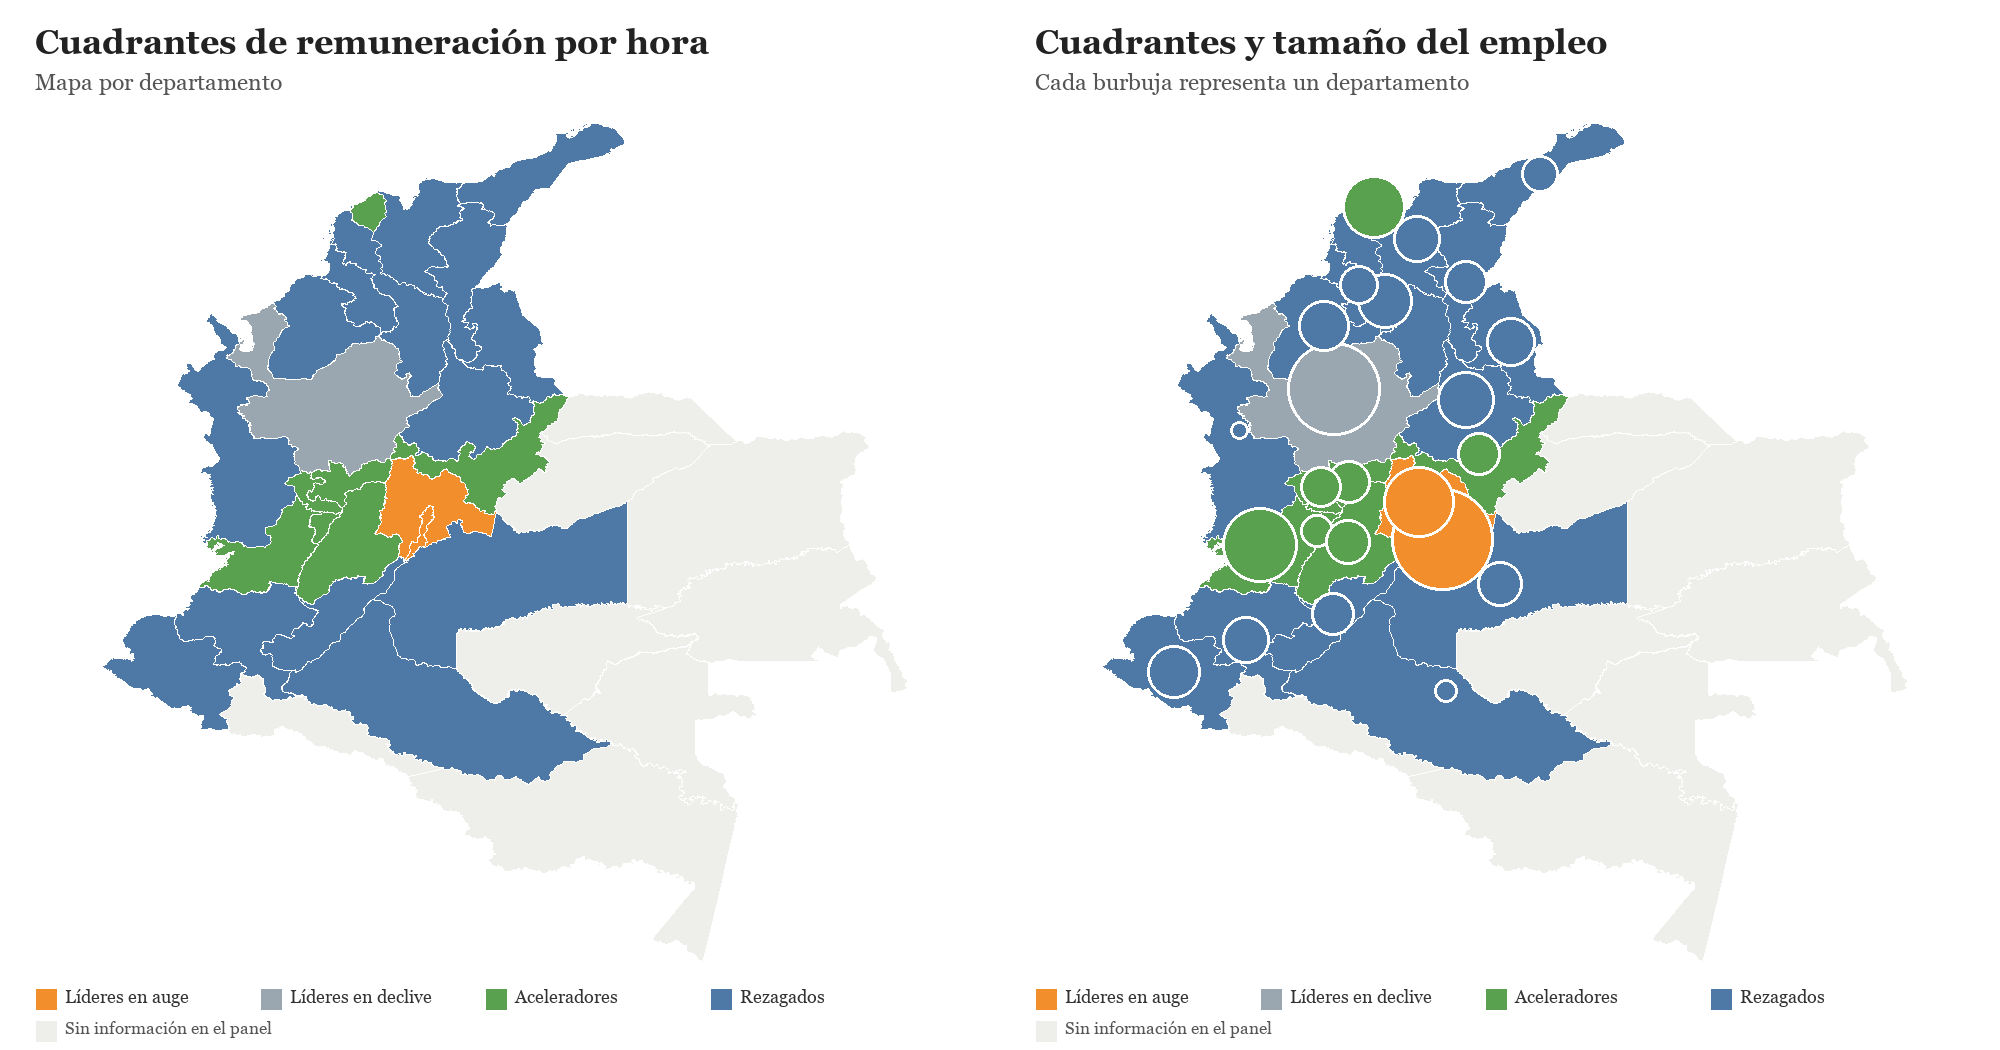
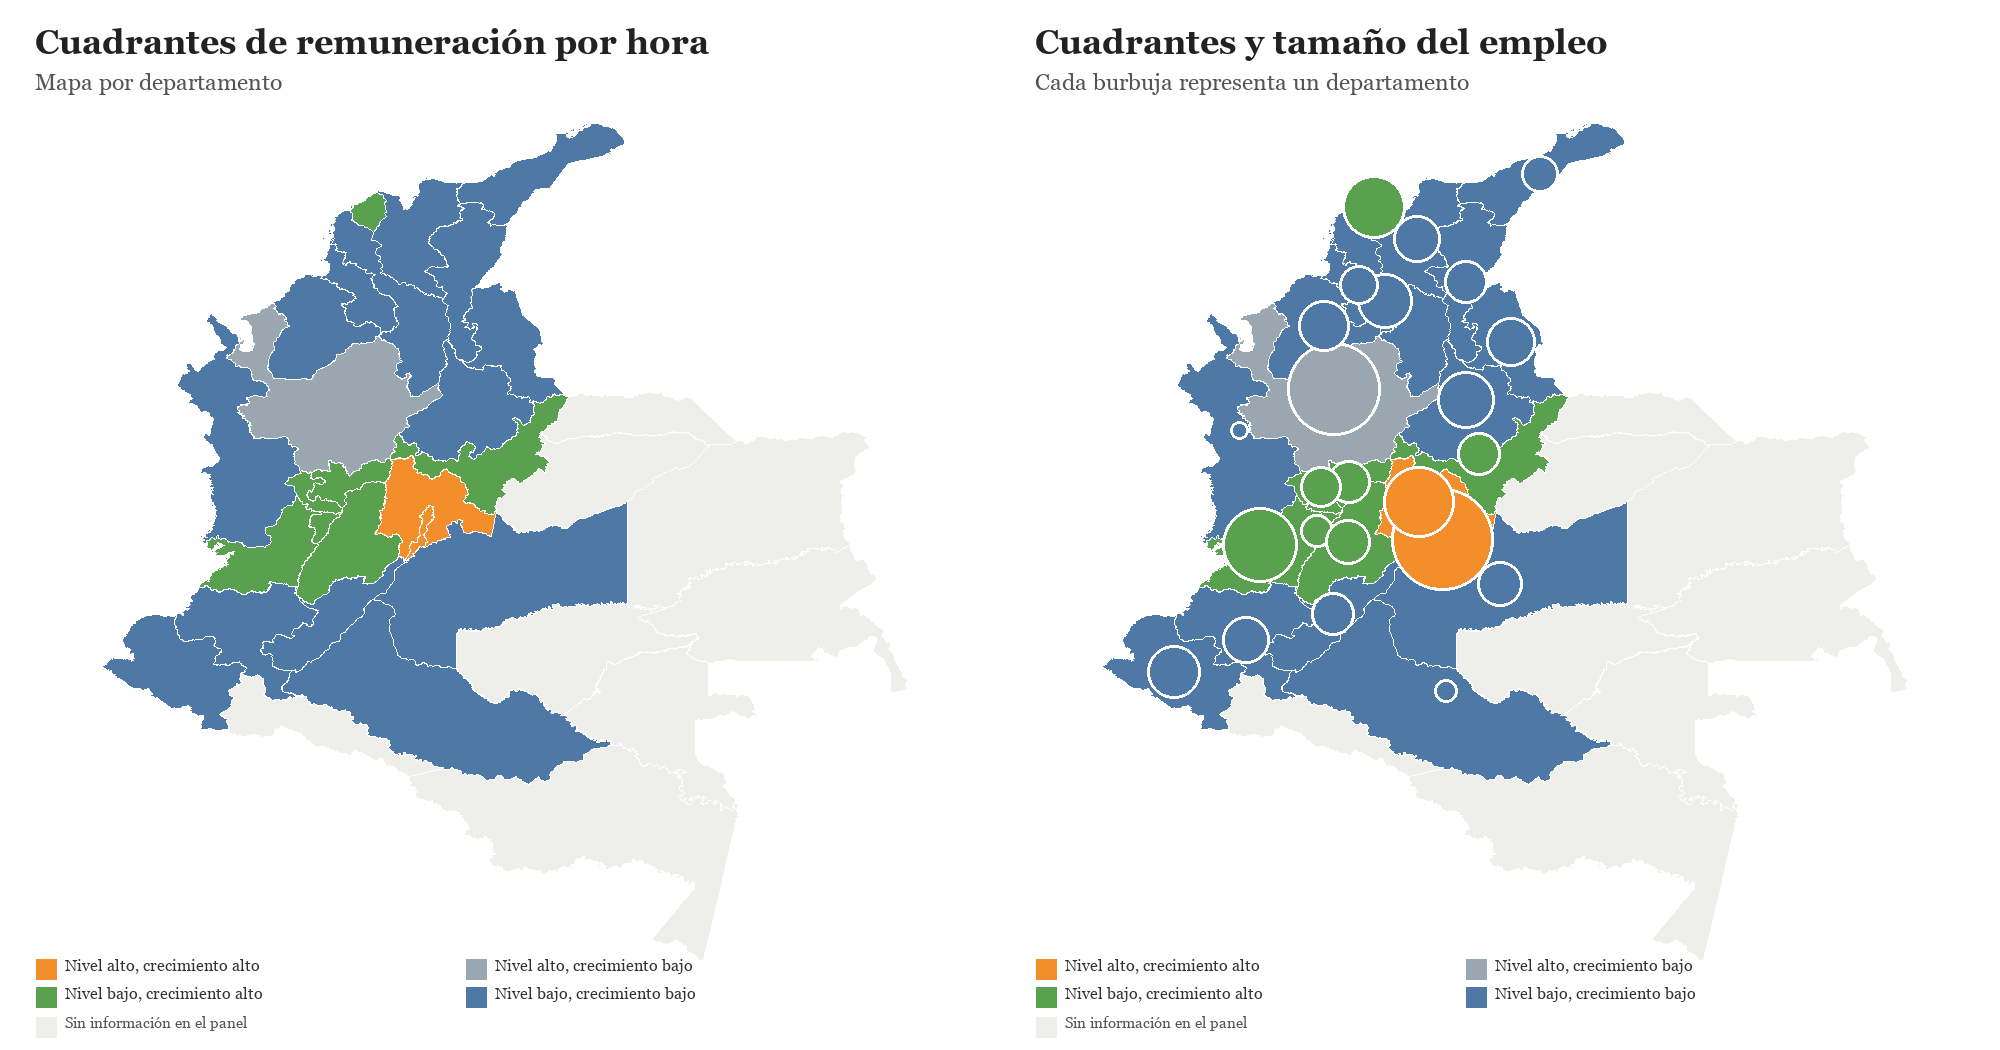
Agregar cuadrantes descriptivos en informes

Changed region(s): [[0.496, 0.9143, 0.899, 1.0], [0.0, 0.9143, 0.403, 1.0]]

diff --git a/Paper/sections/CuerpoInformeRemuneracionDepartamentos.tex b/Paper/sections/CuerpoInformeRemuneracionDepartamentos.tex
@@ -44,7 +44,17 @@
   \caption*{\footnotesize Nota: las escalas de color se centran en el crecimiento agregado del panel de 24 departamentos. Fuente: cálculos propios con GEIH.}
 \end{figure}
 
-\textbf{La clasificación por cuadrantes separa nivel y dinamismo.} Un departamento puede tener una remuneración alta pero crecer por debajo del agregado; también puede partir de niveles bajos y crecer rápido. La Figura \ref{fig:dept_remuneracion_mapa_cuadrantes_24} clasifica los departamentos con base en la remuneración por hora: líderes en auge, líderes en declive, aceleradores y rezagados.
+\textbf{La clasificación por cuadrantes separa nivel y dinamismo.} Un departamento puede tener una remuneración alta pero crecer por debajo del agregado; también puede partir de niveles bajos y crecer rápido. La Figura \ref{fig:dept_remuneracion_cuadrantes_24} cruza el nivel de remuneración por hora con su crecimiento anualizado. Los cuatro cuadrantes se nombran de forma descriptiva: nivel alto y crecimiento alto; nivel alto y crecimiento bajo; nivel bajo y crecimiento alto; y nivel bajo y crecimiento bajo.
+
+\begin{figure}[H]
+  \centering
+  \includegraphics[width=\textwidth]{Paper/figures/fig_dept_remuneracion_cuadrantes_24.png}
+  \caption{Nivel y crecimiento de la remuneración por hora, 2009--2025}
+  \label{fig:dept_remuneracion_cuadrantes_24}
+  \caption*{\footnotesize Nota: la línea vertical muestra el crecimiento agregado de la remuneración por hora; la línea horizontal muestra el nivel agregado de remuneración por hora. El tamaño de la burbuja es proporcional al número de ocupados. Fuente: cálculos propios con GEIH.}
+\end{figure}
+
+\textbf{El mapa permite ver la misma clasificación en el territorio.} La Figura \ref{fig:dept_remuneracion_mapa_cuadrantes_24} muestra dónde se ubican los departamentos de cada cuadrante y complementa la lectura de la dispersión.
 
 \begin{figure}[H]
   \centering

diff --git a/Paper/sections/CuerpoInformeProductividadRemuneracionDepartamentos.tex b/Paper/sections/CuerpoInformeProductividadRemuneracionDepartamentos.tex
@@ -34,6 +34,16 @@
   \caption*{\footnotesize Nota: las escalas de color se centran en el crecimiento agregado del panel de 24 departamentos. Fuente: cálculos propios con DANE y GEIH.}
 \end{figure}
 
+\textbf{También es útil separar el nivel de productividad de su crecimiento.} La Figura \ref{fig:dept_productividad_cuadrantes_24} cruza el nivel de PIB por hora trabajada en 2024pr con su crecimiento anualizado. La línea vertical marca el crecimiento agregado y la línea horizontal marca el nivel agregado. Así se distinguen cuatro situaciones sin convertir la clasificación en un juicio de desempeño: nivel alto y crecimiento alto; nivel alto y crecimiento bajo; nivel bajo y crecimiento alto; y nivel bajo y crecimiento bajo.
+
+\begin{figure}[H]
+  \centering
+  \includegraphics[width=\textwidth]{Paper/figures/fig_dept_productividad_cuadrantes_24.png}
+  \caption{Nivel y crecimiento del PIB por hora trabajada, 2009--2024pr}
+  \label{fig:dept_productividad_cuadrantes_24}
+  \caption*{\footnotesize Nota: la línea vertical muestra el crecimiento agregado del PIB por hora; la línea horizontal muestra el nivel agregado de PIB por hora. El tamaño de la burbuja es proporcional al número de ocupados. Fuente: cálculos propios con DANE y GEIH.}
+\end{figure}
+
 \section{Productividad y remuneración}
 
 \textbf{Los departamentos más productivos tienden a tener mayores remuneraciones, pero la relación no es perfecta.} La correlación entre PIB por trabajador y remuneración por trabajador es 0,79; entre PIB por hora y remuneración por hora es 0,77. La Figura \ref{fig:dept_productividad_remuneracion_scatter_24} muestra ambas relaciones.